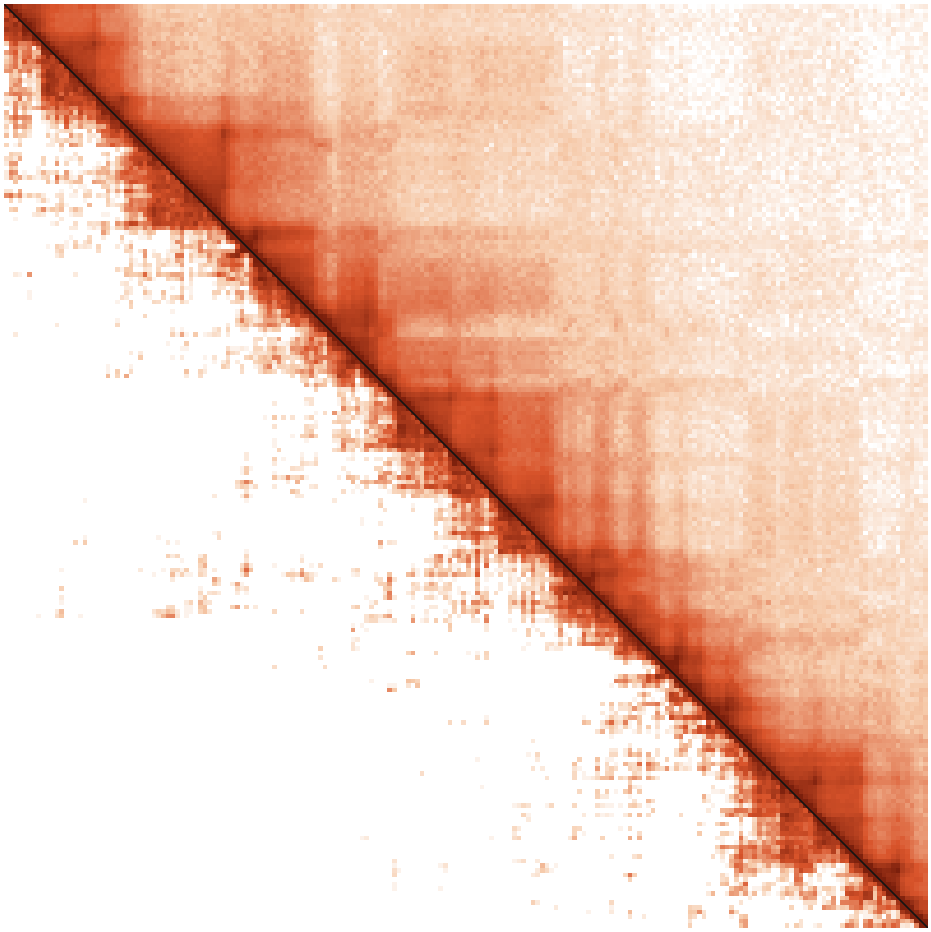
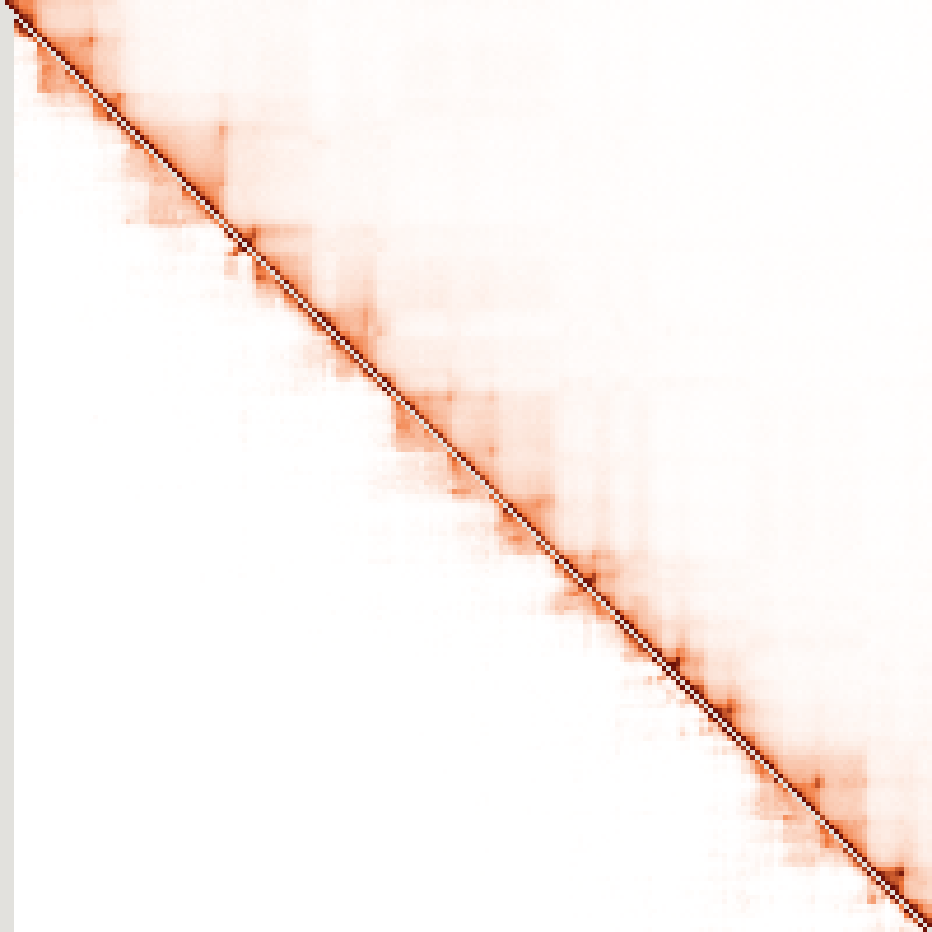
web: the contact map opens on a linear scale with the contacts within the median bond
The tab opened on a log scale with the map of 1/(d+1)^3 below. The picture of the
contacts example of the title page is the tab as it opens now, drawn by
web/design/render_contacts.py from the contact map of the job of the example.

diff --git a/web/frontend/src/pages/Help.tsx b/web/frontend/src/pages/Help.tsx
@@ -83,7 +83,7 @@ const GUIDE: [string, string][] = [
   ['Side panel', 'The panel on the left has the state of the job and the time it took, its region, its loops, its variants, its contact background and its expression. The structure field chooses one structure of the ensemble. Medoid is the structure nearest to all the others, Most compact the one with the smallest radius of gyration and Random one picked by chance. The files of the job are listed under it. Rename job gives the job a name in your list. New job from this request opens the form filled with the request of this job.'],
   ['Structure tab', 'The chain is drawn in 3D with promoters in orange and enhancers in green, or coloured by genomic position. Drag to turn it and scroll to zoom. A bead under the pointer shows its position. The loops of the region are drawn above the structure. A click on a loop marks its two anchors and the chain between them. Find a gene marks the promoter of a gene as A and its nearest enhancer as B, with their distance over all structures. Measure gives the distance between any two beads you click. The three buttons on the right reset the view, save it as a PNG and open it on the full screen.'],
   ['Genes tab', 'Each row is a gene of the region with its nearest enhancer, their separation along the genome and their 3D distance, the mean over the structures in bead units. The last column draws the distances of the single structures, a line from the least to the greatest with a mark at the median. A job with expression has a column for the level of each gene. The buttons above the table keep the genes joined to their enhancer by a loop, or by an RNAPII loop alone. The card beside the table has the histogram of the distances and their median.'],
-  ['Contact map tab', 'The map has two halves, one above and one below the diagonal. By default the upper half is the Hi-C of the cell type and the lower half the contacts of the structures. Each half can also show the contacts within the median bond length, the HiCDiffusion prediction of a job that has one, or the loops. The map is drawn as observed contacts, as observed over expected, or as the Pearson correlation of its rows. Choose the bin size, zoom with the buttons or the scroll wheel and set the colour range in the card. The card Agreement of the two halves gives the Spearman correlation of bin pairs the same distance apart and the SCC. The camera button saves the map with its axes as a PNG.'],
+  ['Contact map tab', 'The map has two halves, one above and one below the diagonal. By default the upper half is the Hi-C of the cell type and the lower half the contacts of the structures, the pairs of beads within the median bond length. Each half can also show the contacts of the structures as 1/(d+1)³ between bins, the HiCDiffusion prediction of a job that has one, or the loops. The two halves share one linear colour scale unless you tick Log scale, separate for each half. The map is drawn as observed contacts, as observed over expected, or as the Pearson correlation of its rows. Choose the bin size, zoom with the buttons or the scroll wheel and set the colour range in the card. The card Agreement of the two halves gives the Spearman correlation of bin pairs the same distance apart and the SCC. The camera button saves the map with its axes as a PNG.'],
   ['Loops tab', 'Every loop the engine read is a row with its factor, its two anchors, its span and its PET count. Show in the model marks the loop on the structure.'],
   ['Log tab', 'The log of the engine, with the fitted exponent of the distance law, the stages and their times.'],
   ['Files', 'A job has one mmCIF file for each structure, the table ep.tsv with the enhancer of every gene and their distance, marks.json with the promoters and enhancers marked on the structures. The log of the engine is engine.log. A job with expression has expression.tsv, the samples it used. Their source is in expression.json. A job with a HiCDiffusion background has the predicted map as hicdiffusion.bedpe. The request of the job is request.json and its stages with their times are status.json. The side panel of a job lists every file. Download all saves them in one zip file.'],

diff --git a/web/frontend/src/job/ContactMapTab.test.tsx b/web/frontend/src/job/ContactMapTab.test.tsx
@@ -33,7 +33,7 @@ function renderTab(files = SUMMARY_DONE.files) {
 describe('ContactMapTab', () => {
   afterEach(() => vi.unstubAllGlobals())
 
-  it('asks for the job region at 25 kb with Hi-C above and the model below', async () => {
+  it('asks for the job region at 25 kb with Hi-C above and the counted contacts of the model below', async () => {
     const f = mockApi([[/contacts$/, () => [200, MAP]], [/annotations$/, () => [200, ANNOTATIONS]]])
     renderTab()
     await screen.findByText('0.21')
@@ -41,7 +41,7 @@ describe('ContactMapTab', () => {
     expect(url).toContain('region=chr1%3A11500000-11575000')
     expect(url).toContain('res=25000')
     expect(url).toContain('upper=hic')
-    expect(url).toContain('lower=model')
+    expect(new URL(url, 'http://site').searchParams.get('lower')).toBe('model_count')
   })
 
   it('opens the longest job at 25 kb and a longer region at the finest resolution it fits', async () => {
@@ -157,9 +157,10 @@ describe('ContactMapTab', () => {
     await screen.findByText('0.21')
     const lower = screen.getByLabelText('Lower half')
     expect(within(lower).getAllByRole('option').map((o) => (o as HTMLOptionElement).value)).toEqual(['model', 'model_count', 'hic', 'loops_ctcf', 'loops_rnapii'])
-    fireEvent.change(lower, { target: { value: 'model_count' } })
+    expect((lower as HTMLSelectElement).value).toBe('model_count')
+    fireEvent.change(lower, { target: { value: 'model' } })
     await new Promise((r) => setTimeout(r, 50))
-    expect(f.mock.calls.some(([u]) => String(u).includes('lower=model_count'))).toBe(true)
+    expect(f.mock.calls.some(([u]) => new URL(String(u), 'http://site').searchParams.get('lower') === 'model')).toBe(true)
   })
 
   it('offers the HiCDiffusion prediction of a job that kept it, in either half', async () => {
@@ -179,10 +180,13 @@ describe('ContactMapTab', () => {
     expect((screen.getByLabelText('Resolution') as HTMLSelectElement).value).toBe('10000')
   })
 
-  it('starts the log colour range at a low percentile, not at zero', async () => {
+  it('opens on a linear scale and starts the log colour range at a low percentile, not at zero', async () => {
     mockApi([[/contacts$/, () => [200, MAP]], [/annotations$/, () => [200, ANNOTATIONS]]])
     renderTab()
     await screen.findByText('0.21')
+    const log = screen.getByRole('checkbox', { name: /Log scale, separate for each half/ })
+    expect(log).not.toBeChecked()
+    fireEvent.click(log)
     expect(Number((screen.getByLabelText(/min/) as HTMLInputElement).value)).toBeGreaterThan(0)
   })
 

diff --git a/web/frontend/src/job/ContactMapTab.tsx b/web/frontend/src/job/ContactMapTab.tsx
@@ -38,8 +38,8 @@ export function ContactMapTab({ api, summary }: { api: JobApi; summary: Summary 
   const [show, setShow] = useState<Show>('observed')
   const [norm, setNorm] = useState<'ice' | 'raw'>('ice')
   const [upperKind, setUpper] = useState('hic')
-  const [lowerKind, setLower] = useState('model')
-  const [log, setLog] = useState(true)
+  const [lowerKind, setLower] = useState('model_count')
+  const [log, setLog] = useState(false)
   const [range, setRange] = useState<[number, number] | null>(null)
   const [hover, setHover] = useState<string | null>(null)
   const [note, setNote] = useState('')

diff --git a/web/design/render_contacts.py b/web/design/render_contacts.py
@@ -1,0 +1,65 @@
+"""Draws the picture of the contacts example of the title page as the contact map tab of a job draws it.
+
+    python web/design/render_contacts.py CONTACTS.json OUT.png
+
+CONTACTS.json is the answer of `/api/jobs/<key>/contacts` for the region of the example with the
+halves the tab opens on, Hi-C above and the contacts of the structures within the median bond
+below. A half arrives as its rows from the diagonal on. Each half has its own linear colour range, from zero to the 99th percentile of its nonzero
+values, as `heatmap.ts` and `mapDraw.ts` have it. The main diagonal and a bin without contacts are
+drawn as no data.
+"""
+
+from __future__ import annotations
+
+import json
+import sys
+from pathlib import Path
+
+import numpy as np
+from PIL import Image
+
+STOPS = np.array([[255, 255, 255], [241, 120, 60], [110, 18, 8]], dtype=float)
+NO_DATA = (226, 225, 221)
+SIDE = 932
+
+
+def ramp(v: np.ndarray, hi: float) -> np.ndarray:
+    """Returns the colours of the values on the linear range from zero to `hi`."""
+    t = np.clip(v / hi if hi > 0 else np.zeros_like(v), 0, 1) * (len(STOPS) - 1)
+    i = np.minimum(len(STOPS) - 2, np.floor(t).astype(int))
+    u = (t - i)[..., None]
+    return np.rint(STOPS[i] + u * (STOPS[i + 1] - STOPS[i])).astype(np.uint8)
+
+
+def top(m: np.ndarray) -> float:
+    """Returns the 99th percentile of the nonzero values of a half, the top of its range."""
+    x = np.sort(m[m > 0])
+    return float(x[min(len(x) - 1, int(0.99 * len(x)))]) if len(x) else 1.0
+
+
+def square(once: list[list[float]]) -> np.ndarray:
+    """Returns the symmetric map of the rows sent once, row i from bin i on."""
+    n = len(once)
+    m = np.zeros((n, n))
+    for i, row in enumerate(once):
+        m[i, i:] = row
+        m[i:, i] = row
+    return m
+
+
+def main() -> None:
+    table = json.loads(Path(sys.argv[1]).read_text())
+    upper, lower = square(table["upper"]), square(table["lower"])
+    n = len(upper)
+    off = ~np.eye(n, dtype=bool)
+    above = np.triu(np.ones((n, n), dtype=bool), 1)
+    img = np.where(above[..., None], ramp(upper, top(upper)), ramp(lower, top(lower)))
+    empty_up, empty_low = ~((upper > 0) & off).any(axis=1), ~((lower > 0) & off).any(axis=1)
+    none = np.where(above, empty_up[:, None] | empty_up[None, :], empty_low[:, None] | empty_low[None, :]) | ~off
+    img[none] = NO_DATA
+    Image.fromarray(img, "RGB").resize((SIDE, SIDE), Image.NEAREST).save(sys.argv[2])
+    print(f"wrote {sys.argv[2]}: {n} bins, ranges 0 to {top(upper):.3g} above and 0 to {top(lower):.3g} below")
+
+
+if __name__ == "__main__":
+    main()

diff --git a/design/website/frontend.md b/design/website/frontend.md
@@ -95,3 +95,12 @@ every part of a job page.
 An open figure is saved as a PNG with its title, `job/export/savePng.ts`. The tables of a job,
 the genes, the loops and the two tables of the comparison, are saved whole as CSV, `lib/csv.ts`.
 `design/website/data.md` has the tables and the comparison.
+
+## The contact map tab and its picture on the title page
+
+The tab opens with the Hi-C of the cell type above and the contacts of the structures within the median bond
+below, on a linear colour scale. Each half has its own range from zero to the 99th percentile of its nonzero
+values. The log scale and the map of 1/(d+1)³ are choices of the card. The picture of the contacts example of
+the title page, `src/assets/contacts.png`, is the tab as it opens on the job of the example:
+`web/design/render_contacts.py` draws it from the answer of `/api/jobs/<key>/contacts`.
+
